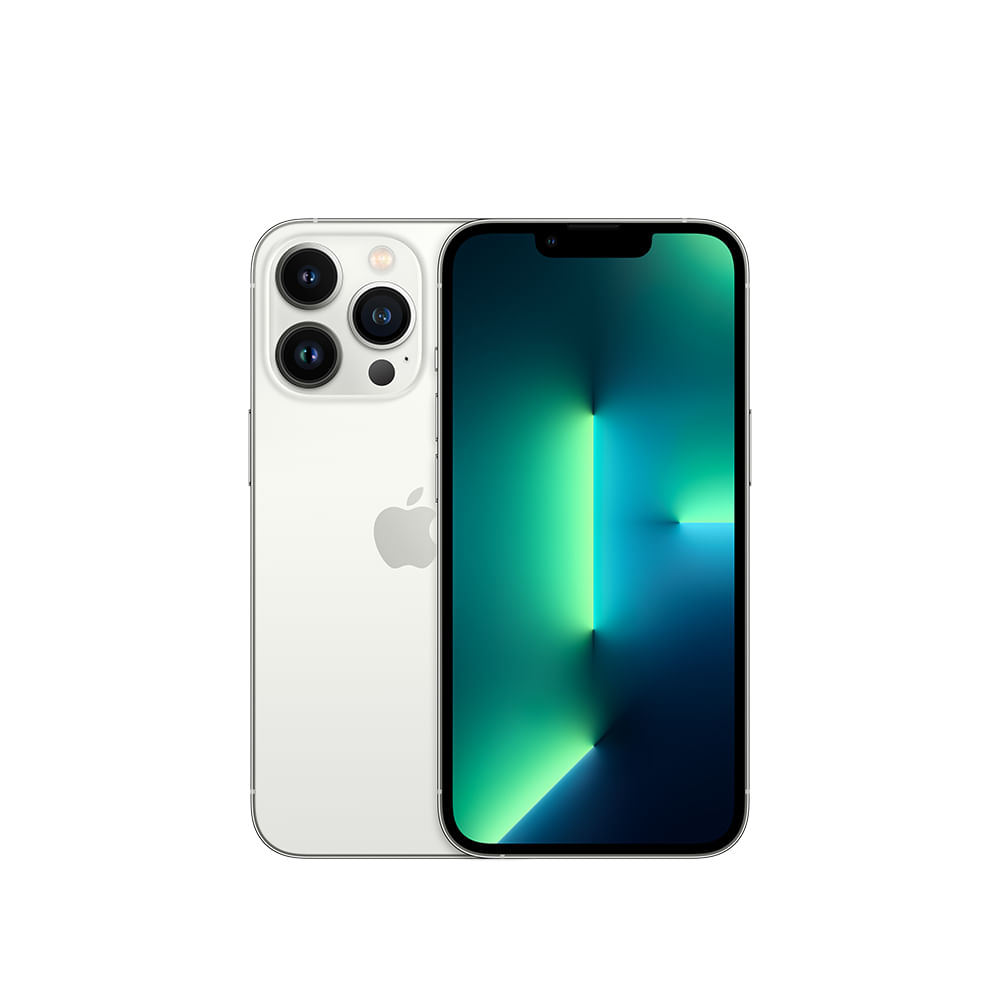
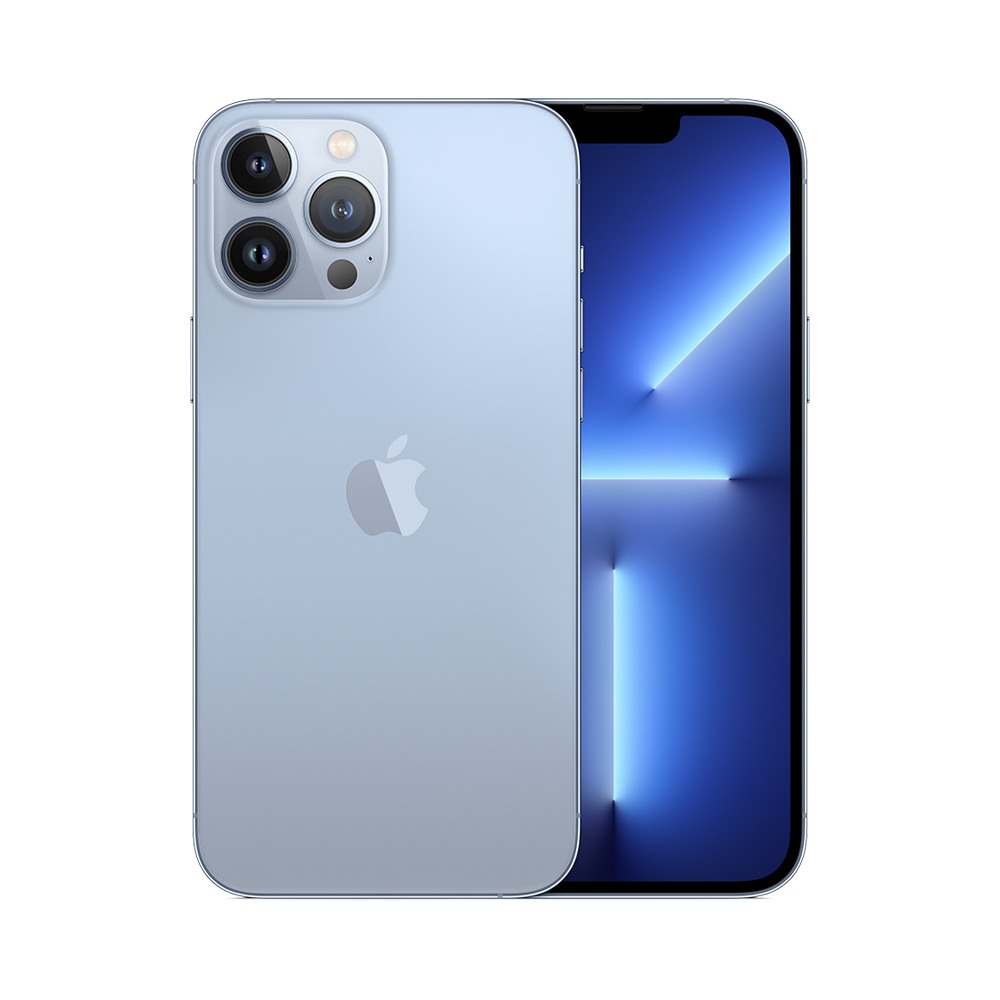
Novos itens adicionados.

diff --git a/celulares.html b/celulares.html
@@ -5,6 +5,7 @@
   <meta name="viewport" content="width=device-width, initial-scale=1.0" />
   <title>Celulares - IT CASE</title>
   <link rel="stylesheet" href="css/styles.css" />
+  <link rel="icon" type="imagem/x-icon" href="./assets/imagens/logoBP.png" >
   <link href="https://fonts.googleapis.com/css2?family=Poppins:wght@300;500;700&display=swap" rel="stylesheet">
 </head>
 <body>
@@ -48,15 +49,21 @@
         <button>Comprar</button>
       </div>
       <div class="produto">
-        <img src="./assets/imagens/iPhone-15.jpg" alt="iPhone" />
+        <img src="./assets/imagens/iphone13.jpg" alt="iPhone" />
         <h3>Iphone 15</h3>
         <p>R$ 4,299.90</p>
         <button>Comprar</button>
       </div>
       <div class="produto">
-        <img src="./assets/imagens/15pro.jpg" alt="iPhone" />
+        <img src="./assets/imagens/iphone15pro.jpg" alt="iPhone" />
         <h3>Iphone 15 Pro</h3>
         <p>R$ 6,999.00</p>
+        <button>Comprar</button>
+      </div>
+      <div class="produto">
+        <img src="./assets/imagens/iphone16.jpg" alt="iPhone" />
+        <h3>Iphone 16</h3>
+        <p>R$ 4,799.90</p>
         <button>Comprar</button>
       </div>
       <div class="produto">

diff --git a/index.html b/index.html
@@ -5,6 +5,7 @@
   <meta name="viewport" content="width=device-width, initial-scale=1.0" />
   <title>IT CASE - Sua loja tech</title>
   <link rel="stylesheet" href="css/styles.css" />
+  <link rel="icon" type="imagem/x-icon" href="./assets/imagens/logoBP.png" >
   <link rel="preconnect" href="https://fonts.googleapis.com">
   <link href="https://fonts.googleapis.com/css2?family=Poppins:wght@300;500;700&display=swap" rel="stylesheet">
 </head>
@@ -70,6 +71,11 @@
 
   <footer class="rodape">
     <p>&copy; 2025 IT CASE. Todos os direitos reservados.</p>
+    <div class="ig">
+      <a href="https://www.instagram.com/itcase_oficial/?hl=en">
+        <img src="" alt="LogoInstagram">
+      </a>
+    </div>
   </footer>
 
   <script src="js/script.js"></script>

diff --git a/motos.html b/motos.html
@@ -5,6 +5,7 @@
   <meta name="viewport" content="width=device-width, initial-scale=1.0" />
   <title>Motos Elétricas - IT CASE</title>
   <link rel="stylesheet" href="css/styles.css" />
+  <link rel="icon" type="imagem/x-icon" href="./assets/imagens/logoBP.png" >
   <link href="https://fonts.googleapis.com/css2?family=Poppins:wght@300;500;700&display=swap" rel="stylesheet">
 </head>
 <body>

diff --git a/acessorios.html b/acessorios.html
@@ -5,6 +5,7 @@
   <meta name="viewport" content="width=device-width, initial-scale=1.0" />
   <title>Acessórios - IT CASE</title>
   <link rel="stylesheet" href="css/styles.css" />
+  <link rel="icon" type="imagem/x-icon" href="./assets/imagens/logoBP.png" >
   <link href="https://fonts.googleapis.com/css2?family=Poppins:wght@300;500;700&display=swap" rel="stylesheet">
 </head>
 <body>

diff --git a/css/styles.css b/css/styles.css
@@ -241,4 +241,3 @@ html {
 }
 
 
-
